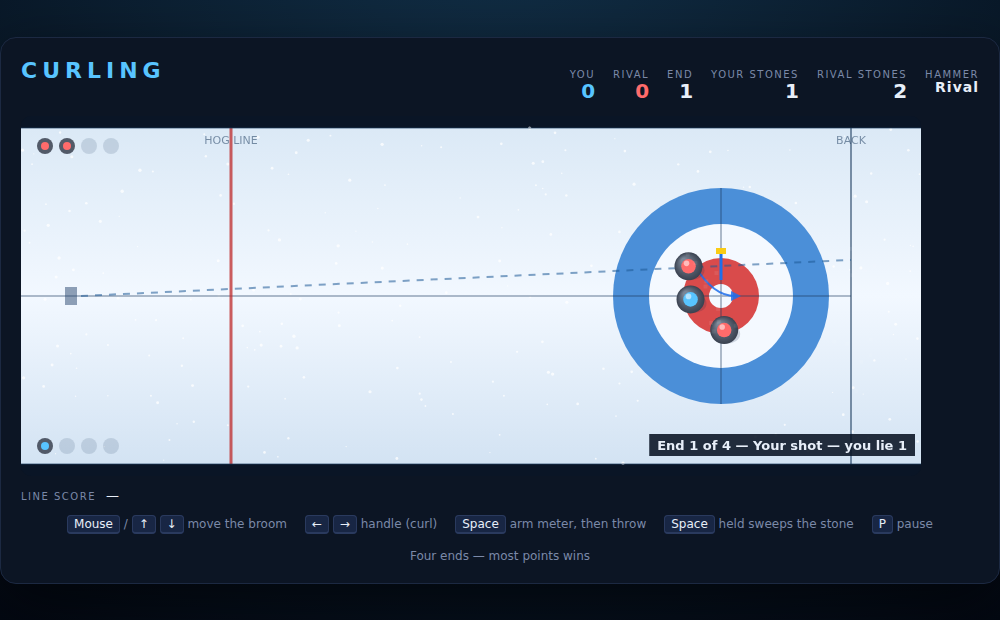
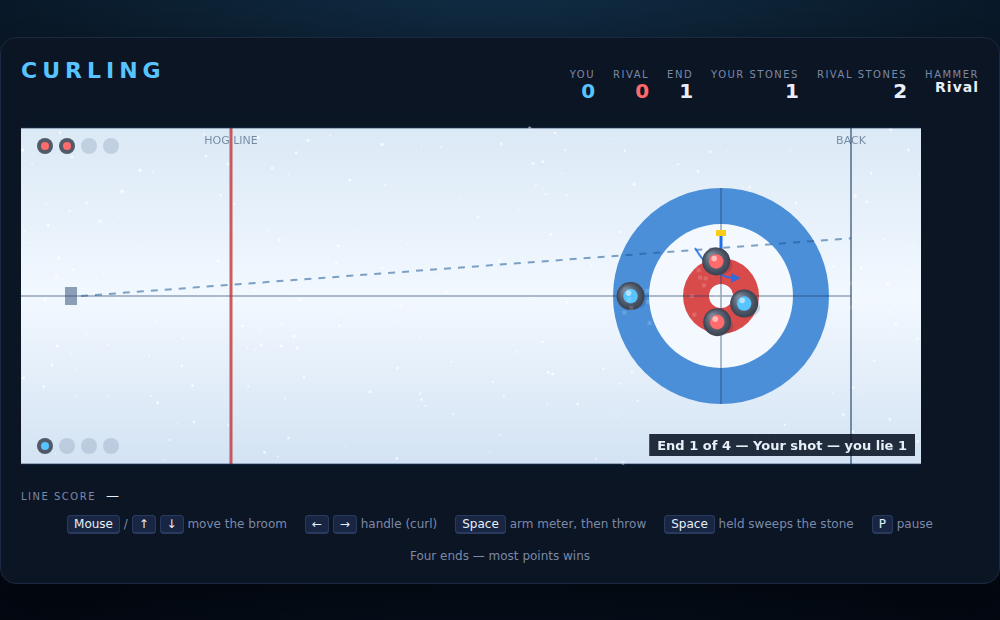
Balance Curling's delivery and polish the sheet
- retune the power range so the whole meter is useful: power 0 just clears
  the hog line, a draw to the button lands near 0.6, power 1 runs through
- draw a guide on the power meter — a band covering weights that finish in
  the house and a tick at draw weight — and slow the meter a little
- give the rival human-sized error on weight and line, so a competent
  player can beat it
- show a rack of stones still to throw, who is lying what, and readable
  meters on dark panels; keep the aim line up while the meter swings
- fade the end-result banner on real time so it clears once a match ends

Claude-Session: https://claude.ai/code/session_01HDMaeUsNuzNoHWabs6x7Us

Changed region(s): [[0.62, 0.3677, 0.775, 0.5516], [0.31, 0.429, 0.496, 0.4597], [0.124, 0.4597, 0.217, 0.4903]]

diff --git a/Curling/game.js b/Curling/game.js
@@ -36,14 +36,17 @@ const STONE_R = 14;
 const FRICTION = 62;                // px/s² of deceleration on plain ice
 const STOP_SPEED = 4;               // below this a stone is put to rest
 const RESTITUTION = 1;              // granite on granite: near enough elastic
-const MIN_SPEED = 190;              // launch speed at power 0…
-const MAX_SPEED = 420;              // …and at power 1
+// The power range is chosen so the whole meter is useful: power 0 just clears
+// the hog line, a draw to the button sits around 0.6, and power 1 is a hitter
+// that runs through the house and out the back.
+const MIN_SPEED = 155;              // launch speed at power 0…
+const MAX_SPEED = 370;              // …and at power 1
 
 // --- Curl & sweeping ---
 const CURL_ACCEL = 26;              // px/s² sideways at full bite
 const CURL_REF = 320;               // a stone at this speed barely curls
 const CURL_MIN_FACTOR = 0.05;
-const CURL_COMP = 48;               // roughly how far a drawn stone curls
+const CURL_COMP = 54;               // how far a drawn stone curls, measured
 const SWEEP_FRICTION = 0.72;        // sweeping scales friction…
 const SWEEP_CURL = 0.35;            // …and curl
 const SWEEP_BUDGET = 3;             // seconds of sweeping per delivery
@@ -51,7 +54,7 @@ const SWEEP_BUDGET = 3;             // seconds of sweeping per delivery
 // --- Match ---
 const ENDS = 4;
 const STONES_PER_END = 4;
-const METER_SPEED = 0.75;           // power meter sweeps per second
+const METER_SPEED = 0.55;           // power meter sweeps per second
 const RIVAL_DELAY = 0.8;            // seconds before the rival throws
 const BANNER_TIME = 2.5;
 
@@ -279,8 +282,6 @@ function removeOutOfPlay() {
 const atRest = () => stones.every((s) => s.vx === 0 && s.vy === 0);
 
 function substep(h) {
-    if (bannerTimer > 0) bannerTimer = Math.max(0, bannerTimer - h);
-
     if (phase === 'power') {
         power += meterDir * METER_SPEED * h;
         if (power >= 1) { power = 1; meterDir = -1; }
@@ -486,10 +487,12 @@ function planRivalShot() {
     const shot = counting[0];
     const spin = rng() < 0.5 ? -1 : 1;
 
+    // The rival is a decent club player, not a machine: every shot carries
+    // enough jitter in weight and line to miss a take-out or come up light.
     if (shot && shot.team === 'p1' && rng() < 0.8) {
         return {
-            power: clamp(powerFor(shot.x + 190) + jitter(0.04), 0, 1),
-            aimY: aimAt(shot.x, shot.y + jitter(7)),
+            power: clamp(powerFor(shot.x + 190) + jitter(0.06), 0, 1),
+            aimY: aimAt(shot.x, shot.y + jitter(13)),
             spin: 0,
         };
     }
@@ -497,15 +500,15 @@ function planRivalShot() {
     if (!counting.length && stonesLeft.p2 > 2 && rng() < 0.35) {
         // A guard short of the house, on or near the centre line.
         return {
-            power: clamp(powerFor(HOG_X + 240) + jitter(0.03), 0, 1),
-            aimY: clamp(TEE_Y - spin * CURL_COMP * 0.6 + jitter(14), SIDE_TOP + 30, SIDE_BOTTOM - 30),
+            power: clamp(powerFor(HOG_X + 240) + jitter(0.05), 0, 1),
+            aimY: clamp(TEE_Y - spin * CURL_COMP * 0.6 + jitter(20), SIDE_TOP + 30, SIDE_BOTTOM - 30),
             spin,
         };
     }
 
     return {
-        power: clamp(powerFor(TEE_X + jitter(14)) + jitter(0.022), 0, 1),
-        aimY: clamp(TEE_Y - spin * CURL_COMP + jitter(12), SIDE_TOP + 30, SIDE_BOTTOM - 30),
+        power: clamp(powerFor(TEE_X) + jitter(0.045), 0, 1),
+        aimY: clamp(TEE_Y - spin * CURL_COMP + jitter(20), SIDE_TOP + 30, SIDE_BOTTOM - 30),
         spin,
     };
 }
@@ -808,9 +811,22 @@ function draw() {
 
     if (state === 'running' && phase === 'slide' && sweeping && deliveredStone) drawSweepers(deliveredStone);
 
-    // Meters.
+    // Meters. The power meter carries a guide: the shaded band is the weight
+    // that finishes somewhere in the house, and the tick is a draw to the
+    // button — everything past it runs through.
     if (state === 'running' && phase === 'power') {
-        drawBar(150, SIDE_BOTTOM - 34, 250, 12, power, '#facc15', 'POWER — press Space to throw');
+        const x = 150;
+        const y = SIDE_BOTTOM - 34;
+        const w = 250;
+        drawBar(x, y, w, 12, power, '#facc15', 'POWER — press Space to throw');
+        const from = powerFor(TEE_X - HOUSE_R);
+        const to = powerFor(BACK_X - STONE_R);
+        ctx.fillStyle = 'rgba(88, 196, 255, 0.35)';
+        ctx.fillRect(x + w * from, y, w * (to - from), 12);
+        ctx.fillStyle = '#f4f9ff';
+        ctx.fillRect(x + w * powerFor(TEE_X) - 1, y - 4, 2, 20);
+        ctx.fillStyle = 'rgba(88, 196, 255, 0.9)';
+        ctx.fillRect(x + w * clamp(power, 0, 1) - 1, y, 2, 12);
     }
     if (state === 'running' && phase === 'slide') {
         drawBar(150, SIDE_BOTTOM - 34, 200, 10, sweepLeft / SWEEP_BUDGET, '#58c4ff', 'SWEEP — hold Space');
@@ -858,6 +874,9 @@ function frame(t) {
     lastTime = t;
     if (dt > 0.05) dt = 0.05; // clamp after tab switches / long frames
     animTime += dt;
+    // The end-result banner fades on real time, so it also clears once the
+    // match is over and the simulation has stopped.
+    if (bannerTimer > 0) bannerTimer = Math.max(0, bannerTimer - dt);
     if (state === 'running') step(dt);
     updateChips(dt);
     draw();

diff --git a/Curling/tests/curling.spec.js b/Curling/tests/curling.spec.js
@@ -822,7 +822,7 @@ test.describe('Curling', () => {
             const r = await page.evaluate(() => {
                 startGame();
                 for (let i = 0; i < 60 * 400 && state === 'running'; i++) {
-                    if (phase === 'aim') throwStone(0.42 + (stonesLeft.p1 % 3) * 0.05, TEE_Y + (stonesLeft.p1 - 2) * 12, stonesLeft.p1 % 2 ? 1 : -1);
+                    if (phase === 'aim') throwStone(0.55 + (stonesLeft.p1 % 3) * 0.03, TEE_Y + (stonesLeft.p1 - 2) * 12, stonesLeft.p1 % 2 ? 1 : -1);
                     step(1 / 60);
                 }
                 return { state, end: endNumber, p1: scoreboard.p1, p2: scoreboard.p2, results: endResults.length };

diff --git a/Curling/DESIGN.md b/Curling/DESIGN.md
@@ -108,7 +108,11 @@ hammer, so the player throws the first stone of the match.
 | <kbd>P</kbd> | pause / resume |
 
 The power meter is an oscillating bar drawn under the sheet: press once to set
-it swinging, press again to deliver at whatever it reads.
+it swinging, press again to deliver at whatever it reads. It carries a guide —
+a shaded band covering the weights that finish somewhere in the house, and a
+tick at a draw to the button — so the meter reads as a range of shots rather
+than a bare number. The range is tuned (`MIN_SPEED`, `MAX_SPEED`) so that a
+draw sits around 0.6 and the whole bar is useful.
 
 ## Code layout
 

diff --git a/README.md b/README.md
@@ -113,7 +113,7 @@ For each new game, put it in a new folder. Each game should have its own README.
 | Marble Spiral | [MarbleSpiral/](MarbleSpiral/) | Complete |
 | Barrel Climb | [BarrelClimb/](BarrelClimb/) | Complete |
 | BurgerTime | [BurgerTime/](BurgerTime/) | Complete |
-| Curling | [Curling/](Curling/) | In Progress |
+| Curling | [Curling/](Curling/) | Complete |
 
 ## Playing
 
